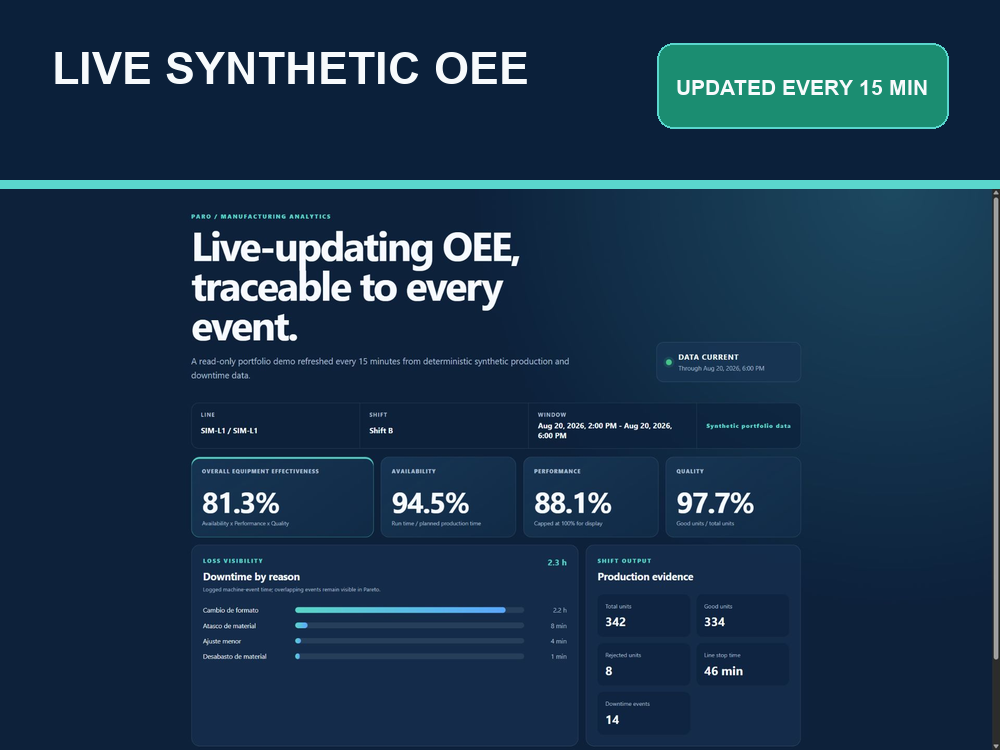
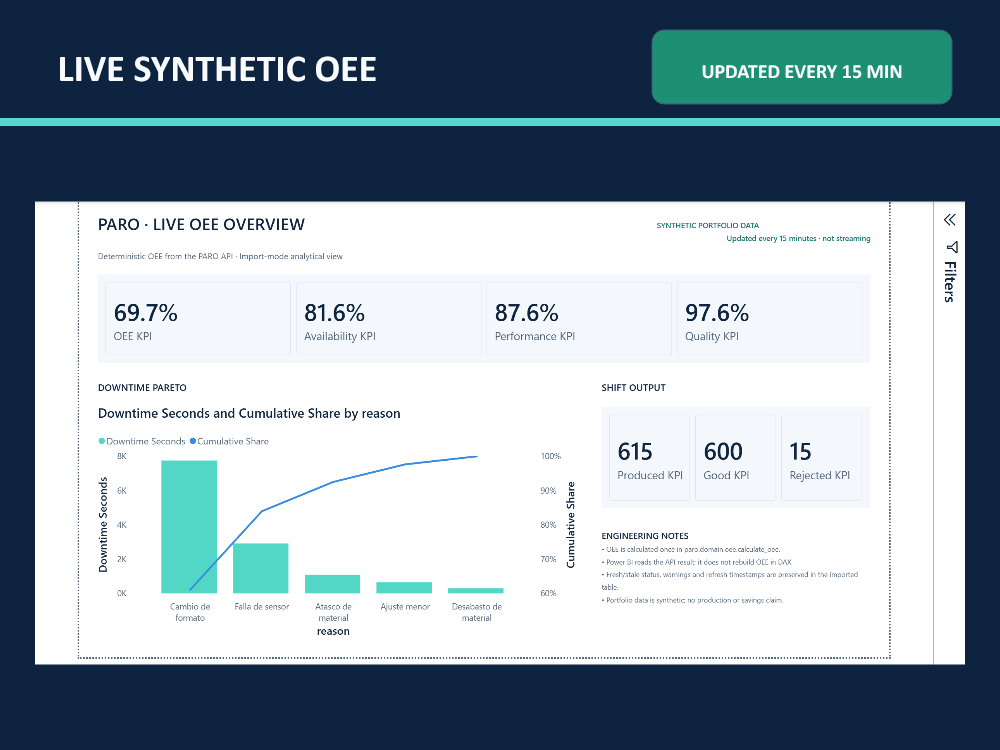
docs: publish verified PARO Power BI evidence

diff --git a/content/paro-project.ts b/content/paro-project.ts
@@ -1,7 +1,8 @@
 import type { Project } from "./types";
 
-const evidenceCommit = "396bd2b25bbbd70c849cacebc8b33a45a917628a";
+const evidenceCommit = "42a6a4fbb141f579c55d4c2fbdb8bf0c9427d1c0";
 const repositoryUrl = "https://github.com/Jehu-Lara/paro-public";
+const demoUrl = "https://paro-public.onrender.com/demo";
 
 export const paroProject: Project = {
   slug: "paro-live-oee-platform",
@@ -90,16 +91,16 @@ export const paroProject: Project = {
   ],
   validation: [
     {
-      en: "The complete local suite contains 206 tests, including crossed credential combinations, secret-log canaries, readiness/liveness behavior, deterministic replay, non-colliding days, open-event closure, and 48-hour catch-up.",
-      es: "La suite local completa contiene 206 pruebas, incluidas combinaciones cruzadas de credenciales, canarios de secretos en logs, readiness/liveness, repetición determinista, jornadas sin colisiones, cierre de eventos y catch-up de 48 horas.",
+      en: "The complete local suite contains 208 tests, including crossed credential combinations, secret-log canaries, readiness/liveness behavior, deterministic replay, non-colliding days, open-event closure, and 48-hour catch-up.",
+      es: "La suite local completa contiene 208 pruebas, incluidas combinaciones cruzadas de credenciales, canarios de secretos en logs, readiness/liveness, repetición determinista, jornadas sin colisiones, cierre de eventos y catch-up de 48 horas.",
     },
     {
       en: "A full synthetic production day stays inside the configured 70–80% OEE band after correcting the serial-line counting model; the dashboard uses the same domain result.",
       es: "Una jornada sintética completa permanece dentro de la banda OEE configurada de 70–80 % después de corregir el conteo de línea serial; el dashboard usa el mismo resultado de dominio.",
     },
     {
-      en: "The PBIR structural validator reports zero errors. Power BI Desktop refresh and the final Desktop capture remain explicitly pending.",
-      es: "El validador estructural PBIR reporta cero errores. El refresh en Power BI Desktop y la captura final de Desktop permanecen explícitamente pendientes.",
+      en: "The PBIR structural validator reports zero errors. Power BI Desktop refreshed successfully and the final evidence uses the authentic Desktop capture.",
+      es: "El validador estructural PBIR reporta cero errores. Power BI Desktop actualizó correctamente y la evidencia final usa la captura auténtica de Desktop.",
     },
   ],
   findings: [
@@ -136,7 +137,7 @@ export const paroProject: Project = {
       },
     },
     {
-      value: "206",
+      value: "208",
       label: { en: "local automated tests", es: "pruebas automatizadas locales" },
       represents: {
         en: "The complete test collection at the pinned evidence commit.",
@@ -178,12 +179,12 @@ export const paroProject: Project = {
       es: "El feed avanza cada 15 minutos y la página consulta cada 60 segundos. No es streaming, sensores en tiempo real ni conectividad MES.",
     },
     {
-      en: "Render authentication, cron secrets, and production verification remain operator-gated until the external deployment checklist passes.",
-      es: "La autenticación en Render, los secretos del cron y la verificación productiva permanecen bajo gate del operador hasta aprobar el checklist externo.",
+      en: "Render write authentication and the 15-minute cron were active at verification; clients receive no write credentials.",
+      es: "La autenticación de escritura en Render y el cron de 15 minutos estaban activos al verificar; los clientes no reciben credenciales de escritura.",
     },
     {
-      en: "Power BI is an authored Import-mode model with zero PBIR structural errors; a refreshed Desktop capture is not yet evidence.",
-      es: "Power BI es un modelo Import ya construido con cero errores estructurales PBIR; una captura actualizada de Desktop aún no es evidencia.",
+      en: "Power BI uses Import mode and shows a verified point-in-time refresh; it is not a streaming surface.",
+      es: "Power BI usa modo Import y muestra una actualización puntual verificada; no es una superficie de streaming.",
     },
     {
       en: "ROI values are illustrative sensitivity scenarios, not savings claims. Avoided downtime and scrap are assigned zero benefit.",
@@ -202,8 +203,8 @@ export const paroProject: Project = {
         kind: "image",
         title: { en: "Read-only OEE dashboard", es: "Dashboard OEE de solo lectura" },
         caption: {
-          en: "Authentic local capture of the synthetic shift view: OEE, A/P/Q, freshness, output, and downtime Pareto.",
-          es: "Captura local auténtica de la vista de turno sintético: OEE, A/P/Q, frescura, producción y Pareto de paros.",
+          en: "Authentic Power BI Desktop capture of the synthetic shift view: OEE, A/P/Q, output, and downtime Pareto.",
+          es: "Captura auténtica de Power BI Desktop de la vista de turno sintético: OEE, A/P/Q, producción y Pareto de paros.",
         },
         body: [],
         image: {
@@ -280,12 +281,12 @@ export const paroProject: Project = {
         es: "Thumbnail de PARO OEE sintético con el dashboard auténtico.",
       },
       longDescription: {
-        en: "The thumbnail preserves the authentic local dashboard showing OEE 81.3%, Availability 94.5%, Performance 88.1%, Quality 97.7%, and an explicit synthetic-data disclosure.",
-        es: "El thumbnail conserva el dashboard local auténtico con OEE 81.3 %, Availability 94.5 %, Performance 88.1 %, Quality 97.7 % y aviso explícito de datos sintéticos.",
+        en: "The thumbnail preserves the authentic Power BI Desktop capture showing OEE 69.7%, Availability 81.6%, Performance 87.6%, Quality 97.6%, and an explicit synthetic-data disclosure.",
+        es: "El thumbnail conserva la captura auténtica de Power BI Desktop con OEE 69.7 %, Availability 81.6 %, Performance 87.6 %, Quality 97.6 % y aviso explícito de datos sintéticos.",
       },
       attribution: {
-        en: "Authentic local capture generated from deterministic synthetic portfolio data.",
-        es: "Captura local auténtica generada con datos sintéticos deterministas de portafolio.",
+        en: "Authentic Power BI Desktop capture generated from deterministic synthetic portfolio data.",
+        es: "Captura auténtica de Power BI Desktop generada con datos sintéticos deterministas de portafolio.",
       },
     },
   ],
@@ -336,8 +337,8 @@ export const paroProject: Project = {
     },
     limitsTitle: { en: "Honest limits", es: "Límites honestos" },
     provenanceIntro: {
-      en: "All public statements on this page are bounded by the pinned implementation commit and the explicitly pending external gates.",
-      es: "Todas las afirmaciones públicas de esta página están delimitadas por el commit de implementación fijado y los gates externos explícitamente pendientes.",
+      en: "All public statements on this page are bounded by the pinned implementation commit and the documented verification limits.",
+      es: "Todas las afirmaciones públicas de esta página están delimitadas por el commit de implementación fijado y los límites de verificación documentados.",
     },
     licensing: {
       en: "Project-authored code, documentation, dashboard assets, and synthetic data are published under the repository's MIT license.",
@@ -346,12 +347,17 @@ export const paroProject: Project = {
     programmingLanguages: ["Python", "SQL", "DAX", "JavaScript"],
     heroLinks: [
       {
+        label: { en: "Live demo", es: "Demo en vivo" },
+        url: demoUrl,
+        kind: "evidence",
+      },
+      {
         label: { en: "View code", es: "Ver código" },
         url: repositoryUrl,
         kind: "repository",
       },
       {
-        label: { en: "Review deployment gate", es: "Revisar gate de despliegue" },
+        label: { en: "Review deployment contract", es: "Revisar contrato de despliegue" },
         url: `${repositoryUrl}/blob/${evidenceCommit}/docs/deployment.md`,
         kind: "evidence",
       },
